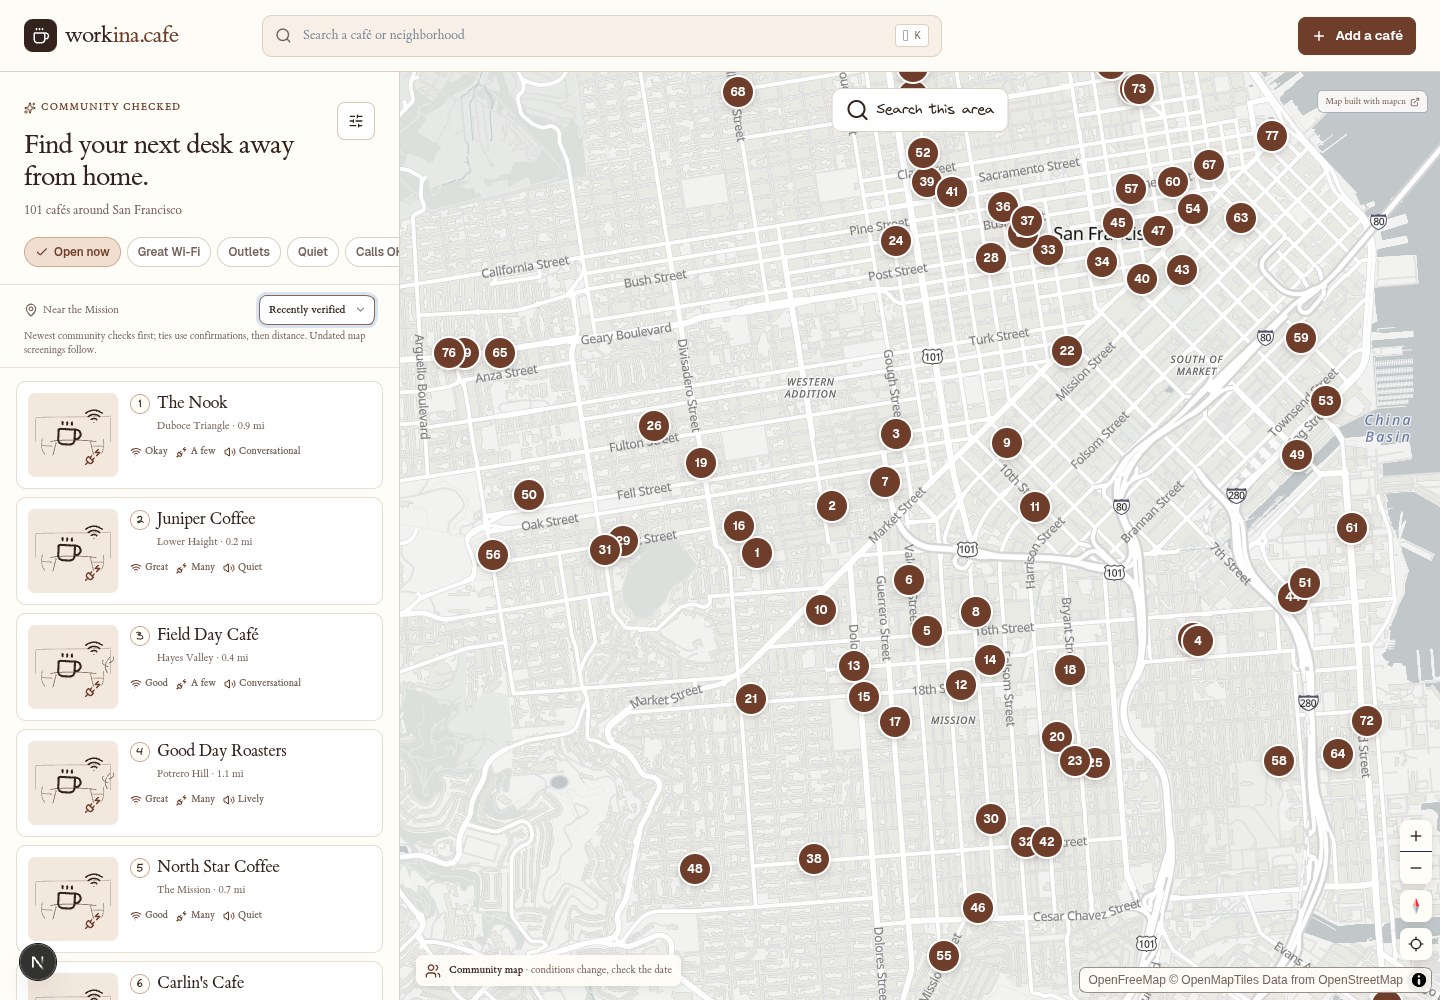
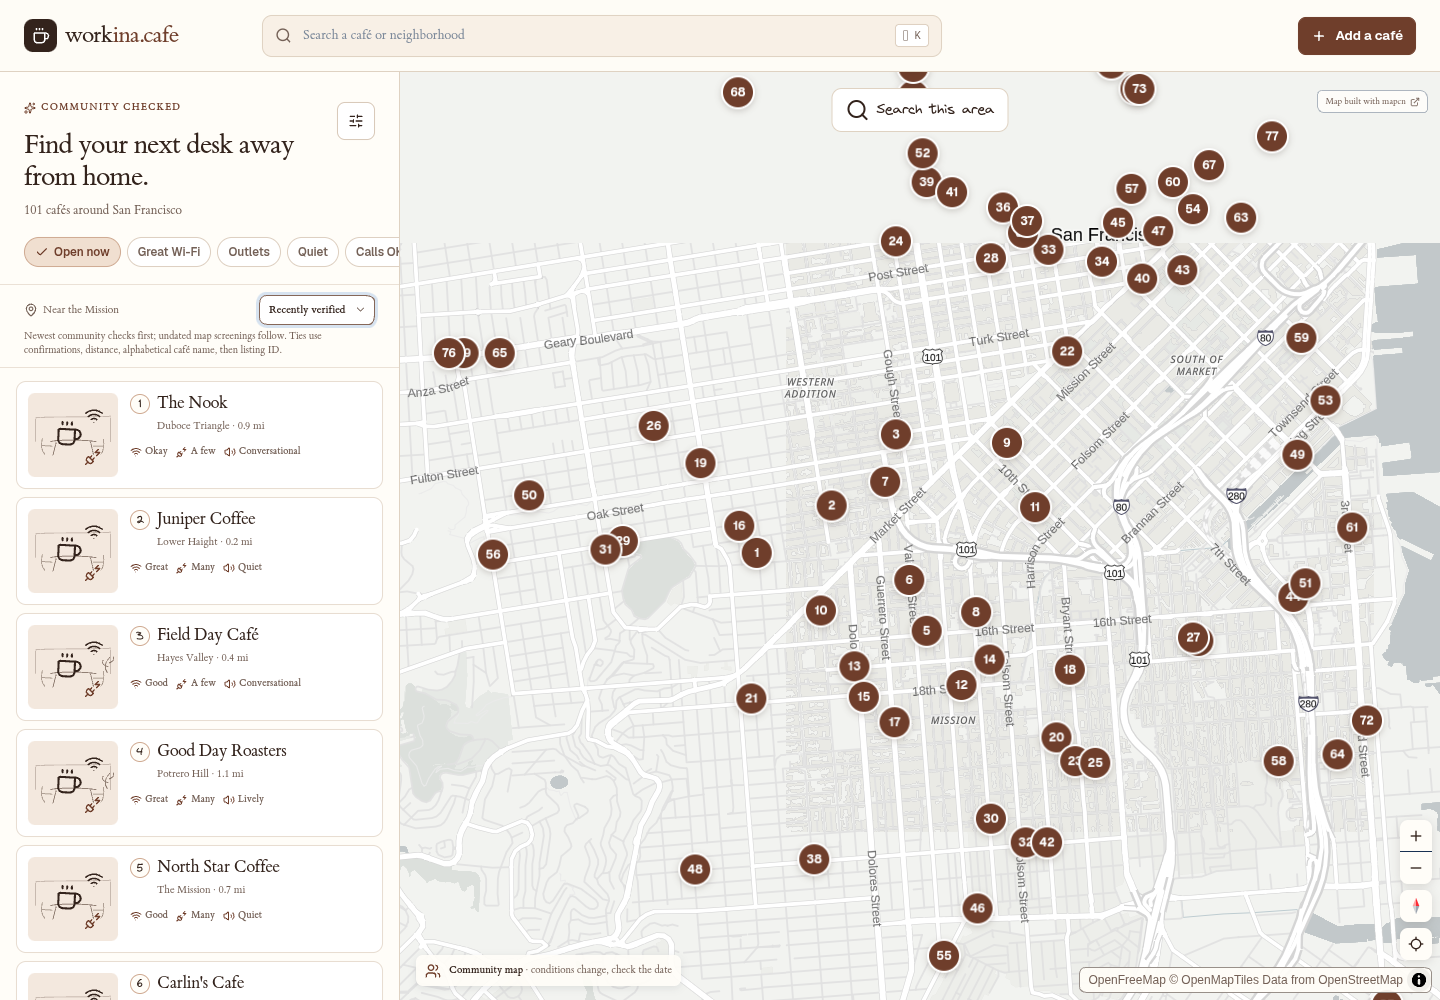
Disclose final cafe sort tie-breakers

diff --git a/src/lib/cafe-sort.ts b/src/lib/cafe-sort.ts
@@ -11,19 +11,19 @@ export const CAFE_SORT_OPTIONS: ReadonlyArray<{
     id: "recommended",
     label: "Recommended",
     explanation:
-      "More community confirmations first; ties use fresher checks, then distance.",
+      "More community confirmations first; ties use freshness, distance, alphabetical café name, then listing ID.",
   },
   {
     id: "nearest",
     label: "Nearest",
     explanation:
-      "Shortest listed distance first; ties are alphabetical. New cafés without a distance follow.",
+      "Shortest listed distance first; ties use alphabetical café name, then listing ID. New cafés without a distance follow.",
   },
   {
     id: "recently-verified",
     label: "Recently verified",
     explanation:
-      "Newest community checks first; ties use confirmations, then distance. Undated map screenings follow.",
+      "Newest community checks first; undated map screenings follow. Ties use confirmations, distance, alphabetical café name, then listing ID.",
   },
 ];
 
